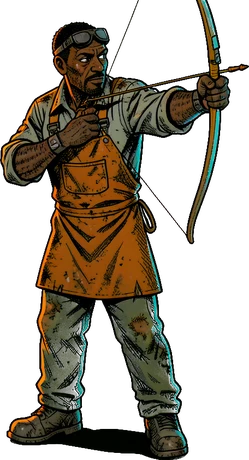
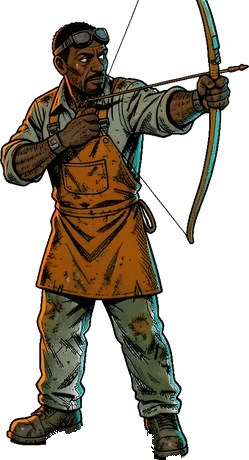
Polish: crisp steel doors, recessed ladders, grate landings, clearer room upgrade looks, cleaned two sprites

Changed region(s): [[0.1687, 0.913, 0.6185, 1.0], [0.6747, 0.9739, 0.7309, 1.0]]

diff --git a/style.css b/style.css
@@ -466,3 +466,25 @@ button:focus{outline:none}
 .room.lladder>header{padding-left:40px}.room.rladder>header{padding-right:40px}.room.lladder .ptap{right:8px}.room.rladder .ptap{right:46px}
 .hlad{display:none}.hstairs{position:absolute;left:50%;top:6px;transform:translateX(-50%);width:170px;height:150px;z-index:1;pointer-events:none;background:url(art/ui/stairs.svg) center/contain no-repeat;filter:drop-shadow(0 3px 4px #000c)}
 .hshaft{position:absolute;left:50%;bottom:-8px;transform:translateX(-50%);width:54px;height:30px;z-index:1;pointer-events:none;background:linear-gradient(#0c0806,#1a120b);border:2px solid #000;border-bottom:0}
+/* ---- polish pass 2026-11-17 ---- */
+/* side ladders sit in a dark recess cut into the rock, with a rail each side */
+.sidelad{width:38px;background:repeating-linear-gradient(transparent 0 10px,#c79a5b 10px 15px,#5a3f22 15px 17px,transparent 17px 28px),linear-gradient(90deg,#9a7448 0 5px,transparent 5px 33px,#9a7448 33px),linear-gradient(90deg,#0a0705,#1d150e 30%,#1d150e 70%,#0a0705);border-left:2px solid #000;border-right:2px solid #000;box-shadow:inset 0 0 10px #000,0 0 6px #000a}
+/* the center shaft gets a darker recess too, so the ladder reads as going down into the rock */
+#shaft{box-shadow:inset 0 0 14px #000,0 0 8px #000b}
+/* landings: a steel grate with a lip */
+.land{background:repeating-linear-gradient(90deg,#8d7550 0 4px,#4d3a24 4px 6px);height:9px;border:2px solid #000;box-shadow:0 3px 0 #0008}
+/* doors: a crisp steel door in a rusted frame */
+.door{image-rendering:auto}
+/* upgrade looks: each tier is visibly cleaner, brighter and better built */
+.room{transition:filter .3s}
+.room.t0{filter:saturate(.72) brightness(.9);box-shadow:inset 0 0 0 2px #3a2a1a,inset 0 0 40px #000a}
+.room.t1{filter:saturate(.88) brightness(.97);box-shadow:inset 0 0 0 2px #4a3a2a,inset 0 0 30px #0008}
+.room.t2{filter:saturate(1) brightness(1.03);box-shadow:0 0 0 1px #6b7178,inset 0 0 0 2px #8a9096aa,inset 0 0 22px #0006}
+.room.t3{filter:saturate(1.08) brightness(1.08) contrast(1.03);box-shadow:0 0 0 1px #9fa6ad,inset 0 0 0 3px #c9ced3bb,inset 0 3px 0 5px #ffffff10}
+.room.t4,.room.t5{filter:saturate(1.12) brightness(1.12) contrast(1.04);box-shadow:0 0 0 2px #d8b45a,inset 0 0 0 3px #e9cf8acc,0 0 14px #d8b45a55}
+.room.t3::after,.room.t4::after,.room.t5::after{content:"";position:absolute;left:8%;right:8%;top:30px;height:3px;border-radius:2px;background:linear-gradient(90deg,transparent,#fff3d0cc,transparent);box-shadow:0 0 12px 3px #ffe6b066;pointer-events:none;z-index:1}
+.room.t4::after,.room.t5::after{background:linear-gradient(90deg,transparent,#ffe9a8,transparent);box-shadow:0 0 16px 5px #ffd77a77}
+.room header small{margin-left:4px;padding:0 4px;border-radius:3px}
+.room.t2 header small{background:#c9ced3;color:#1d2a1d}
+.room.t3 header small{background:#e2e6ea;color:#1d4a1d}
+.room.t4 header small,.room.t5 header small{background:#e9cf8a;color:#3a2a08}

diff --git a/js/ui.js b/js/ui.js
@@ -357,7 +357,7 @@
     return `<div id="base"><div id="shaft" style="height:${h}px;left:${SHAFT - 27}px"></div><div id="rooms" style="${S.mid ? 'margin-left:8px;grid-template-columns:1fr 1fr 76px 1fr 1fr' : ''}">${cells.join('')}<div class="digrow" style="grid-row:${rows + 1}${S.mid ? ';grid-column:1/6' : ''}"><button id="dig">Dig a new level (${E.digCost(S)} scrap)</button>${ladBtns}</div>${doorsHtml(rows)}${sideL}${bubs.join('')}</div></div>${heardHtml()}`;
   }
   function doorsHtml(rows) {
-    const out = [], at = (x, row) => `<img class="door" src="art/ui/door.webp" style="left:${x - RL - 25}px;top:${FEET(row) - 148}px">`;
+    const out = [], at = (x, row) => `<img class="door" src="art/ui/door.svg" style="left:${x - RL - 25}px;top:${FEET(row) - 148}px">`;
     for (let row = 0; row < rows; row++) {
       const shaftHere = !S.hall || (row > 0 && row <= ((S.lad || {}).c ?? 0));
       if (shaftHere) out.push(`<div class="land" style="top:${FEET(row) - 3}px;left:${SHAFT - RL - 30}px"></div>`);
